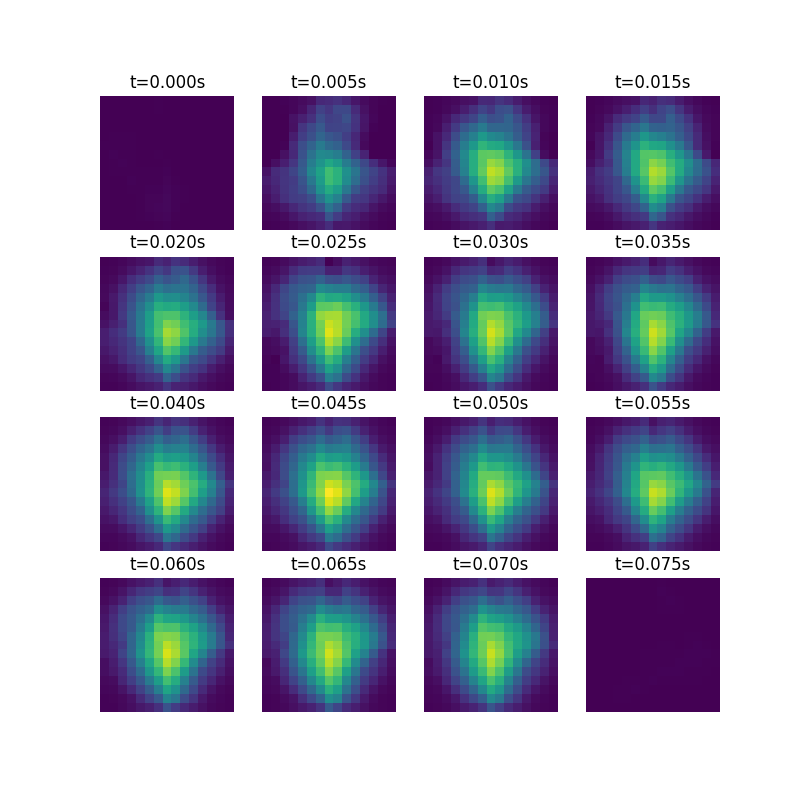
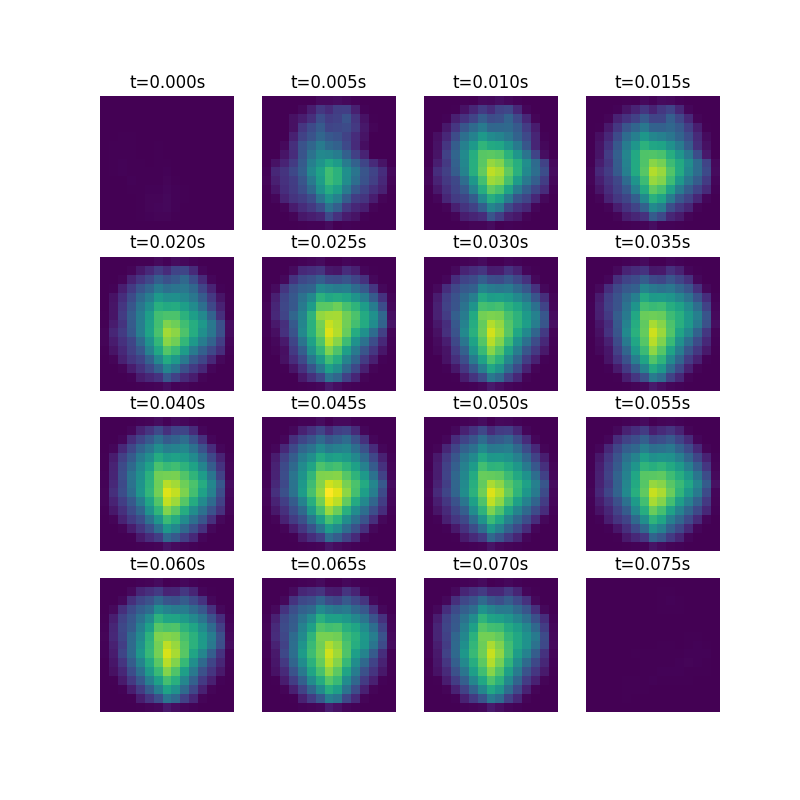
updated reconstructions.py

diff --git a/reconstructions.py b/reconstructions.py
@@ -48,9 +48,8 @@ print('Dv:', Dv.shape, Dv.dtype)
 ii, jj = ellipse(n_rows//2, n_cols//2, n_rows//2, n_cols//2)
 mask = np.ones((n_rows, n_cols))
 mask[ii,jj] = 0.
-mask = mask.flatten()
 
-I = np.eye(n_rows*n_cols) * mask
+I = np.eye(n_rows*n_cols) * mask.flatten()
 
 print('I:', Dh.shape, Dh.dtype)
 
@@ -64,9 +63,11 @@ DtDv = np.dot(np.transpose(Dv), Dv)
 
 ItI = np.dot(np.transpose(I), I)
 
-alpha = 1e3
+lambda_1 = 1e3
+lambda_2 = lambda_1
+lambda_3 = 10*lambda_1
 
-inv = np.linalg.inv(PtP + alpha*(DtDh + DtDv + ItI))
+inv = np.linalg.inv(PtP + lambda_1*DtDh + lambda_2*DtDv + lambda_3*ItI)
 
 M = np.dot(inv, Pt)
 
